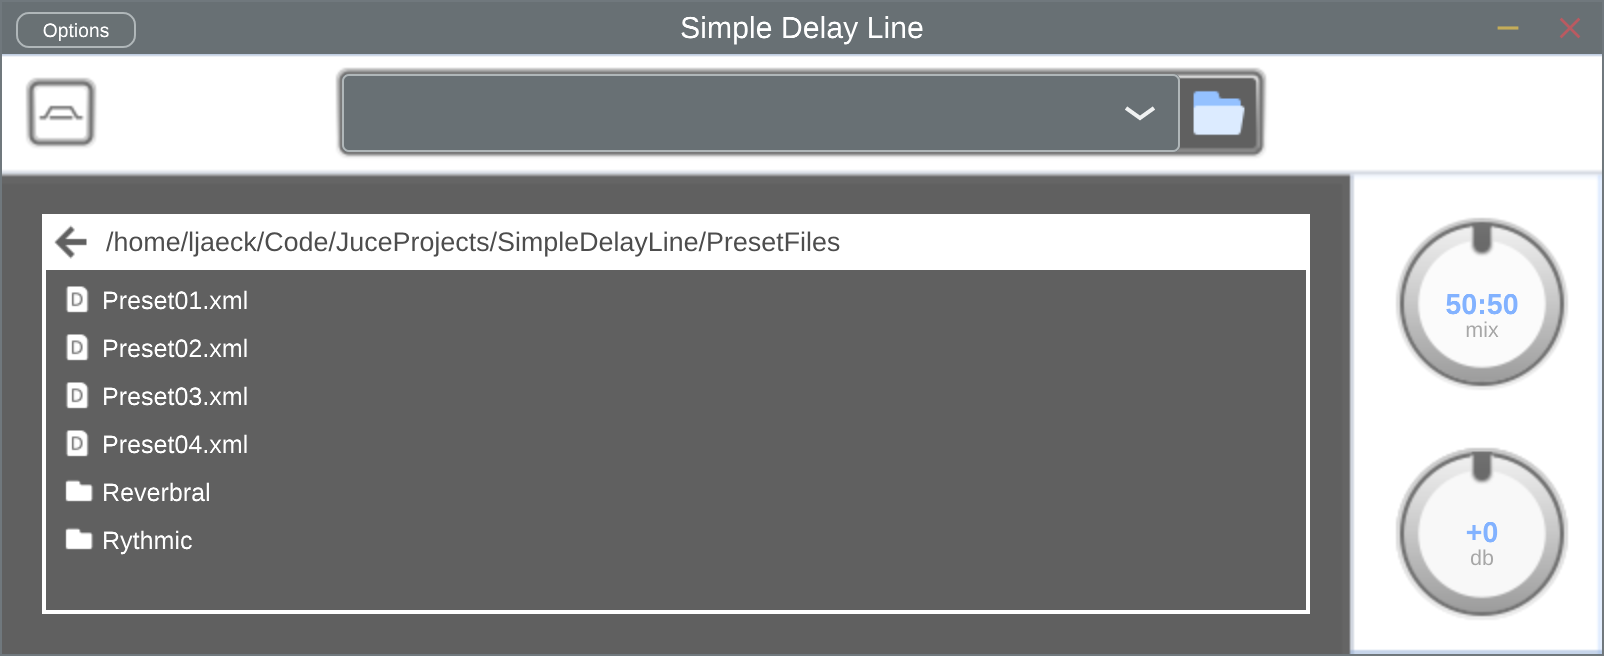
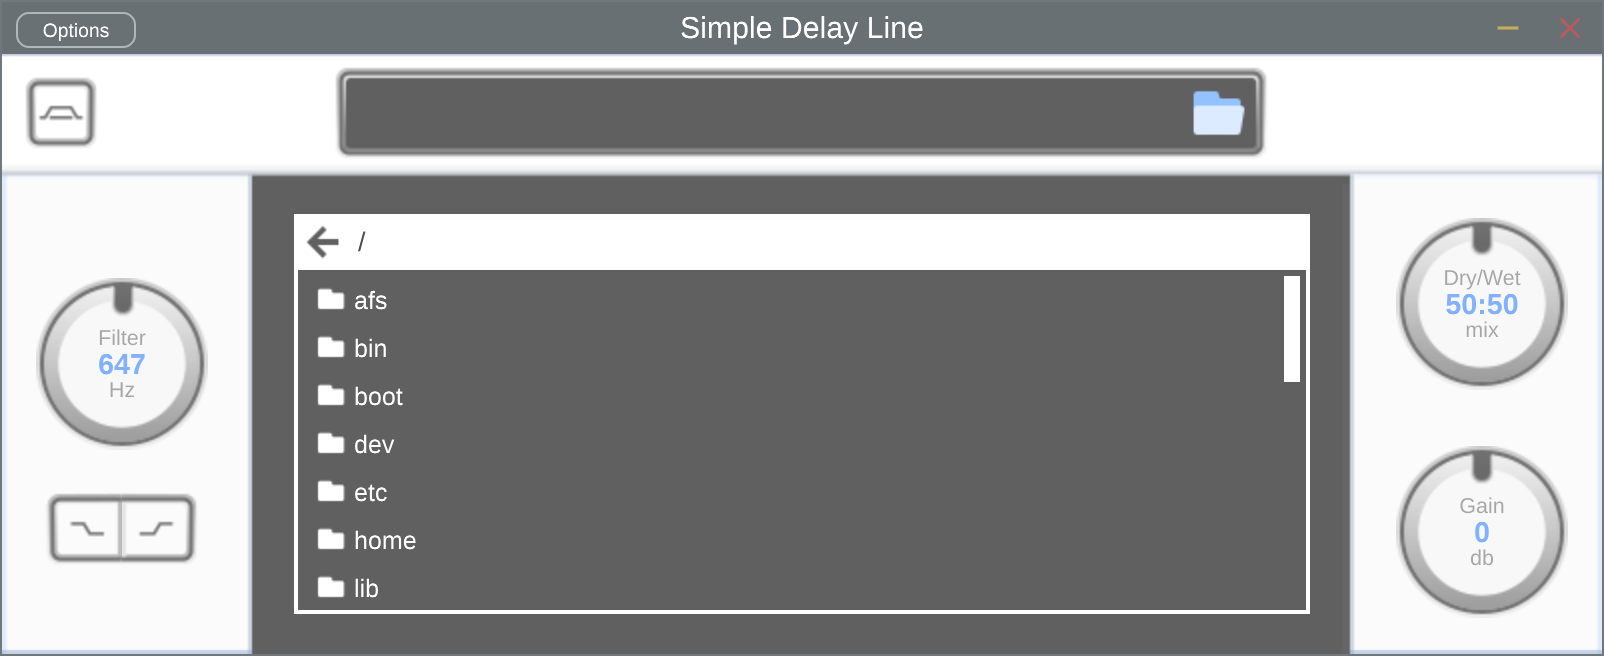
updated README

diff --git a/README.md b/README.md
@@ -18,7 +18,9 @@ This plugin allows you to create stereo multitap delay effects in your audio pro
   - Select between processing the left (L), right (R), or both channels 
 
 ![](Docs/switch_channel.gif)
-
+- Adjust input frequency band
+  - Top left rotary slider controls the cutoff frequency for the filter processing the input signal
+  - Switch between lowpass and highpass filter by selecting the corresponding button ( below the cutoff slider)
 - Adjustable wet/dry mix
   - Top right rotary slider controls blend between dry input signal and wet delayed signal
 - Output gain adjustment
